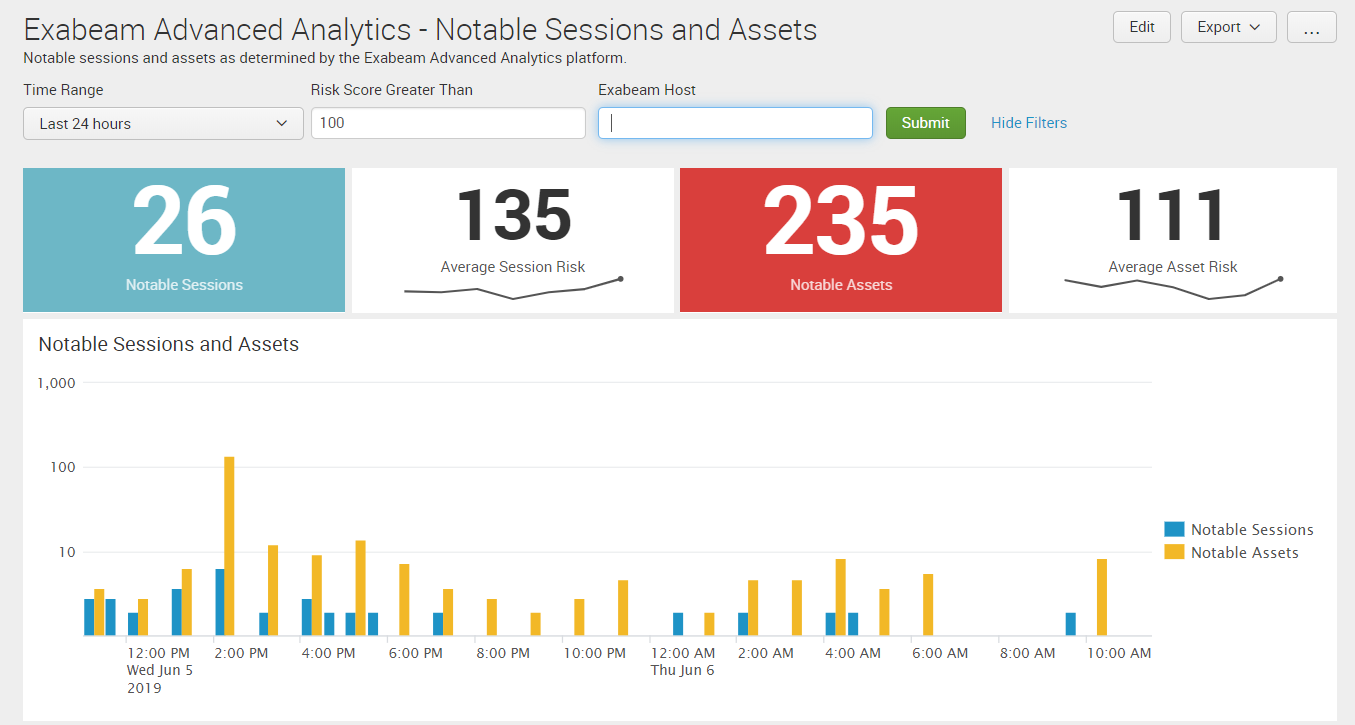
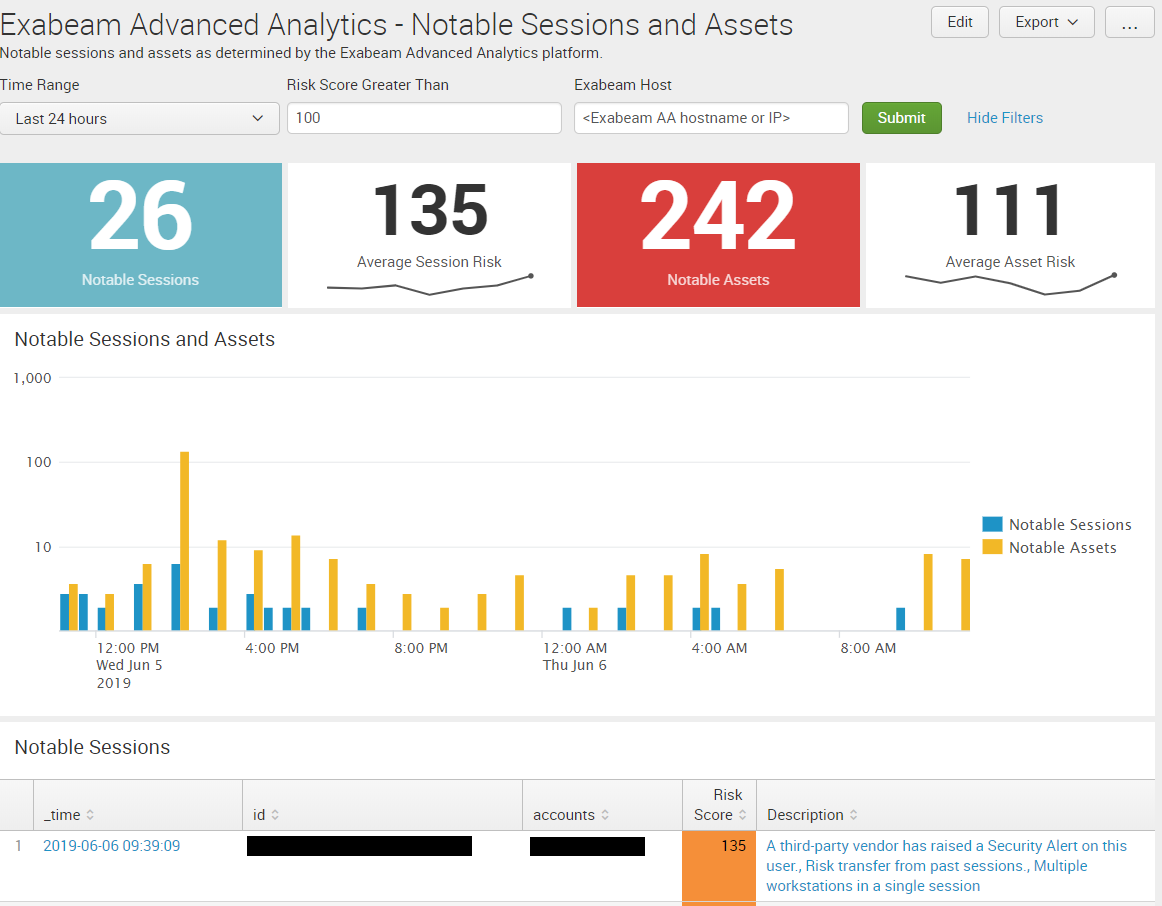
Image updates

diff --git a/readme.md b/readme.md
@@ -2,7 +2,7 @@
 
 ![Dashboard Screenshot](./exabeam-aa.png)
 
-A dashboard for getting a handle on Exabeam notable sessions and assets. Supports functionality to click through on the events table, taking you directly to the timeline on Exabeam AA.
+A dashboard for getting a handle on Exabeam notable sessions and assets. Supports functionality to click through on the events table, taking you directly to the timeline on Exabeam AA. Be sure to specify the IP or hostname of your Exabeam AA host in the top field in order to enable this functionality.
 
 ## Requirements
 
